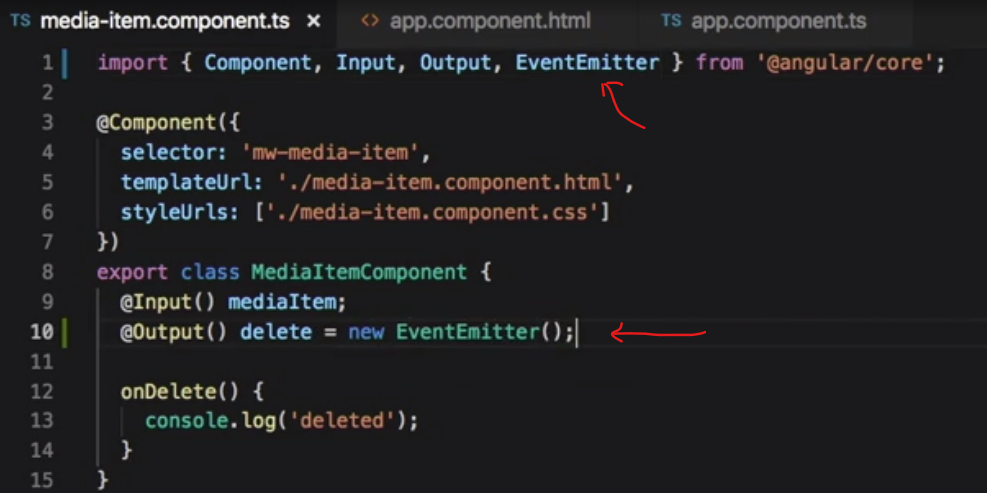
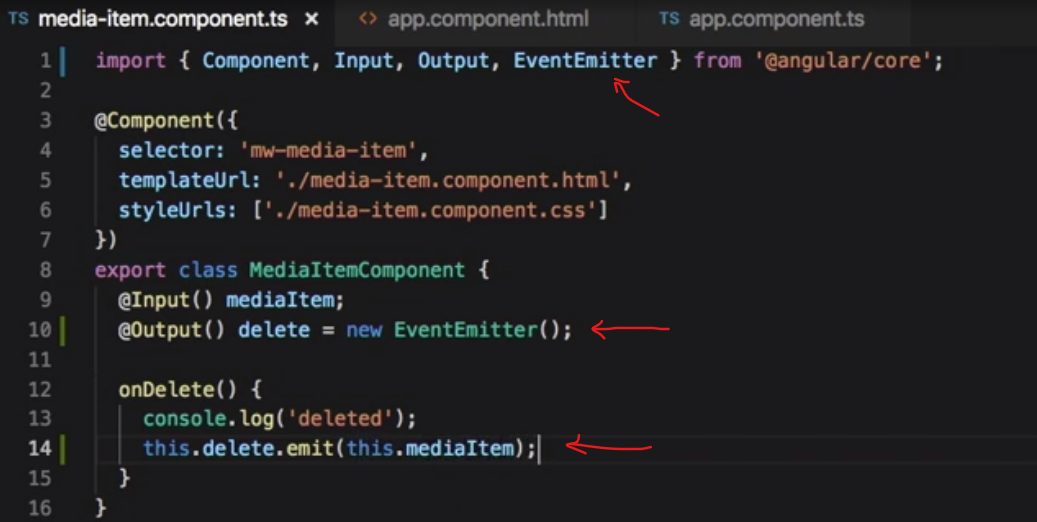
attribute directives

diff --git a/README.md b/README.md
@@ -237,40 +237,89 @@ Looking at this in the browser, we can see the mediaItem data rendered within th
 and then switch over to the app.component.html file where we are using it and update the property name to be mediaItemToWatch instead of mediaItem in the binding target. *Now, even though Angular supports this name alias, it is a recommended practice to avoid using that approach by default*.  
 
 
-###  Selecting transcript lines in this section will navigate to timestamp in the video  
+###  Subscribing to component events with @Output  
 Angular has an output decorator that allows you to expose event bindings on components. We can update the media item component and make use of the output decorator to provide notifications of a delete request. Using output is similar to how you use input.  
 - First we need to import the output decorator from the @angular/core scoped package.  
 - Then we can use the output decorator to decorate a property on the component class, that we can name "delete."  
+  Like the input decorator, the output decorator allows you to pass in a string value if you want to alias the property. But again, *it is recommended you only use the alias if you run into a case where you need it*. So we will stick with the property name of "delete" here.    
 ![Angular app](images/output.png)  
 *The difference with output is we want to set the property to an EventEmitter object*.  
 - To do that, we need to import the *EventEmitter*, which also comes from the @angular/core scoped package.  
 - And then back down at the new property, we can set that equal to a new EventEmitter.  
+- The delete property, which is an EventEmitter, has a method named "emit." So we call this.delete.emit. This method expects to be called with an argument that represents data we can send back.  
 ![Angular app](images/output1.png)  
-Like the input decorator, the output decorator allows you to pass in a string value if you want to alias the property. But again, *it is recommended you only use the alias if you run into a case where you need it*. So we will stick with the property name of "delete" here.   
-
-
-
-What we are doing here is exposing an event that can be subscribed to on our custom component, just like native DOM events. But to emit the delete event, we need to have something happen.   
-![Angular app](images/output2.png)  
 And with that, the media item component is now wired up with an output for a delete event, using the output decorator.  
 - The last thing we need to do is to head over to the app component, where we are using the media item component, and make use of the event.  
-So over in the app.component.html file, we can add the delete event binding to the mw-media-item element. Create a call to an onMediaItemDelete method. And since this emit callback in the media item component was being called with the media item as an argument, we can make use of a key term, $event, in the statement, to get access to that value.  
+So over in the app.component.html file, we can add the delete event binding to the mw-media-item element. Create a call to an ```onMediaItemDelete``` method. And since this emit callback in the media item component was being called with the media item as an argument, we can make use of a key term, ```$event```, in the statement, to get access to that value.  
 So this is us in the app component telling Angular, "Hey, when this media item component emits its delete event, we want to respond to that by calling the app component onMediaItemDelete method."  
 ![Angular app](images/output3.png)  
 - One last thing. We need to flip over to the app.component.ts file, and add our ```onMediaItemDelete``` method. We know that the event from the media item component will return us a media item object, so we can add a parameter named mediaItem to the signature. Here you can fill out this method with the logic to delete a media item.  
-![Angular app](images/output3.png)  
-
-
-
-
-
+![Angular app](images/output4.png)  
 
 
 
 
 ## DIRECTIVES and PIPES
 
-#### Component
+###  Structural directives: ngIf  
+
+Angular has two types of directives:  
+ - structural - a structural directive is designed to alter the DOM layout by adding or removing DOM elements. 
+ - attribute.  
+Let's start with the Angular structural directive **ngIf**. ngIf will conditionally render the DOM element that the directive is on. Structural directives are applied to normal DOM elements using an asterisk template syntax.  
+In this case, we want to see if mediaItem.watchedon has a value.  
+![Angular app](images/ngif.png)  
+Let's talk about that asterisk syntax. The asterisk is what is referred to as syntactic sugar. Syntactic sugar is a shorthand pattern for writing something that the platform will interpret and convert to the actual syntax. So back in the code we can actually rework the way we use ngIf here:  
+![Angular app](images/ngif.png)  
+The asterisk syntax allows you to skip having to write the ng-template tag and simply put the structural directive directly on the element that is the contents of the ng-template. Note that both ways work the same.  
+But there are times where using the ng-template element for your ngIf is handy, like when you want to conditionally render multiple sibling elements based on the same conditional statement and not introduce another DOM element to do so.  
+
+
+###  Structural directives: ngFor  
+
+The ngFor directive is used to repeat markup when looping over some data.  
+Let's put the ngFor to use in the app. We have another new component named media-item-list-component.ts. This component is designed to render out a list of media items and uses the media item component to render each one.  
+![Angular app](images/ngfor.png)  
+In the template markup there is a section element with one mw-media-item element inside of that. We want to have a ```<mv-media-item>``` element **for each** media item in the media items, class property.  
+We can now use the media item template input variable by putting the media item property binding on the ```<mv-media-item>``` element and setting the statement to the media item, template, input variable.   
+![Angular app](images/ngfor1.png)  
+And now if we look at the browser we see the list of media items. And if we inspect the list, we can see that the media dash item elements are written out to the DOM. Out of the box, these structural directives not only handle modifying the DOM when they first load up but they also adjust the Dom as the data that is bound changes.  
+![Angular app](images/ngfor2.png)  
+
+
+###  Attribute directives: Built-in  
+Attribute directives are designed to change the appearance or behavior of the DOM elements that they are attached to. They do not create or remove DOM elements like structural directives.  
+- Set up some CSS rules set up in the media-item.component.css file for some classes. So we can just start using those in the template. So on the mw-media-item element, we use the directive property template syntax using the square brackets around the term ngClass, and set that equal to a statement.  
+- In the media-item-list.component.html file, we will make use of the ngClass attribute directive to get some CSS classes onto the mediaItem elements based on the mediaItem medium type.  
+  The ngClass directive expects an object structure for its statement value with the CSS classes for the property names and a true false for the values. In our case, we want to have two CSS classes, one named ```medium-movies``` and one named ```medium-series```.  
+  ![Angular app](images/attribute.png)  
+  and set the value of medium-movies and the value of medium-series.  
+  ![Angular app](images/attribute1.png)  
+- And if we switch over to the browser, we see different colors for the media items. And if we inspect the DOM, we can see that the media items are getting the appropriate class applied to them from the ngClass attribute directive.  
+  ![Angular app](images/attribute2.png)  
+
+
+###  Attribute directives: Custom  
+
+This attribute directive will handle setting a class on the media item element. If it has been set to a favorite or not.
+- Create a new file inside the app folder named favorite.directive.ts And in there we bring in the directive decorator with an import statement from the angular core scoped package.  
+- Then we use the @directive decorator and pass it in object literal for the directive metadata. The selector value is going to be ```M[myFavorite]```.  
+- we need to export a class named ```FavoriteDirective```.  
+- To get a class applied to the host element that the directive is on, use another angular decorator called host binding and is found in the angular core scoped package. So we add host binding to the import statement.  
+- Host binding is used to bind a host element property to a directive property. So inside of the director of class definition, we add ```@HostBinding()```; and  nside of the parentheses we put ```@HostBinding('Class.is-favorite')```. Name ```@HostBinding('Class.is-favorite')``` and initialize that to ```true``` for now. So the host binding decorator is configuring.  
+  ![Angular app](images/attribute2.png)  
+- Now we can switch over to the media-item.component.html file and put the directive property on the element for the favorite icon.  
+  ![Angular app](images/attribute3.png)  
+- The last thing we need to do is let the app module know that this new directive is available for use. Over in the app.module.ts file. We want to add this new directive to the declarations of metadata property.  
+  ![Angular app](images/attribute4.png)  
+- Over in the browser, we can inspect a media item and see the is- favorite CSS class apply to the element we put the directive on.  
+  ![Angular app](images/attribute5.png)  
+
+
+
+  
+  
+
 
 Components are actually directives with a template. _Directives provide functionality and can transform the DOM._
 
